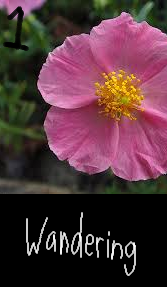
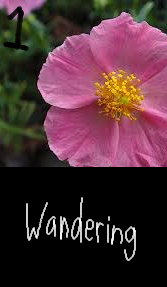
slight tweaks

Changed region(s): [[0.0, 0.5575, 1.0, 0.9756]]

diff --git a/ignoranceisbliss.html b/ignoranceisbliss.html
@@ -4,6 +4,7 @@
     <meta charset="UTF-8">
     <meta name="viewport" content="width=device-width, initial-scale=1.0">
     <title>123456789</title>
+    <link rel="icon" type="image/x-icon" href="images/favicon.png">
     <link href="/style.css" rel="stylesheet" type="text/css" media="all">
   </head>
   <body style="font-family: monospace; background-color: black; color: white; text-align: center;">

diff --git a/pathway.html b/pathway.html
@@ -4,6 +4,7 @@
     <meta charset="UTF-8">
     <meta name="viewport" content="width=device-width, initial-scale=1.0">
     <title>p a t h w a y</title>
+    <link rel="icon" type="image/x-icon" href="images/pathwayicon.png">
     <link href="/pathway-style.css" rel="stylesheet" type="text/css" media="all">
     <style>
 		body {

diff --git a/index.html b/index.html
@@ -4,6 +4,7 @@
     <meta charset="UTF-8">
     <meta name="viewport" content="width=device-width, initial-scale=1.0">
     <title>The poor children</title>
+    <link rel="icon" type="image/x-icon" href="images/favicon.png">
     <link href="/style.css" rel="stylesheet" type="text/css" media="all">
     <style>
 			body {

diff --git a/404.html b/404.html
@@ -4,6 +4,7 @@
     <meta charset="UTF-8">
     <meta name="viewport" content="width=device-width, initial-scale=1.0">
     <title>null</title>
+    <link rel="icon" type="image/x-icon" href="images/faviconalt.png">
     <link href="/style.css" rel="stylesheet" type="text/css" media="all">
     <style>
 
